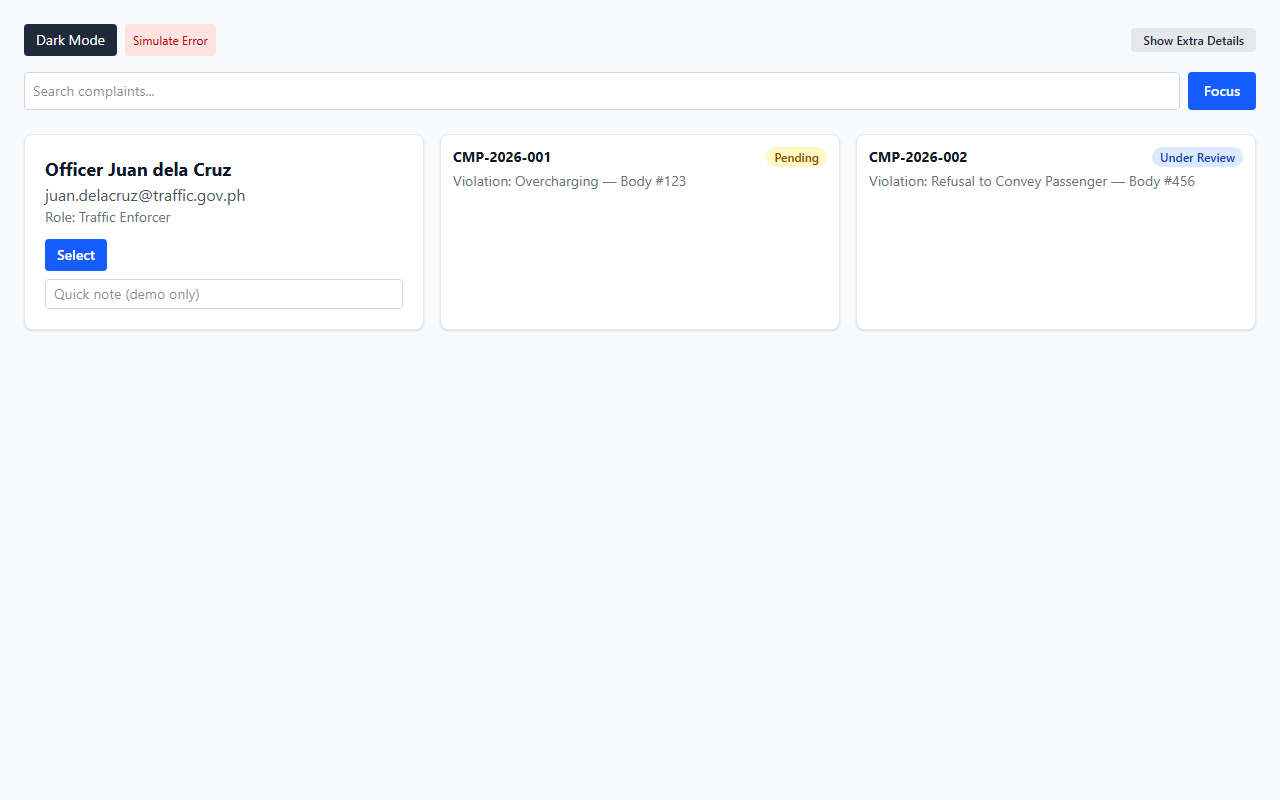
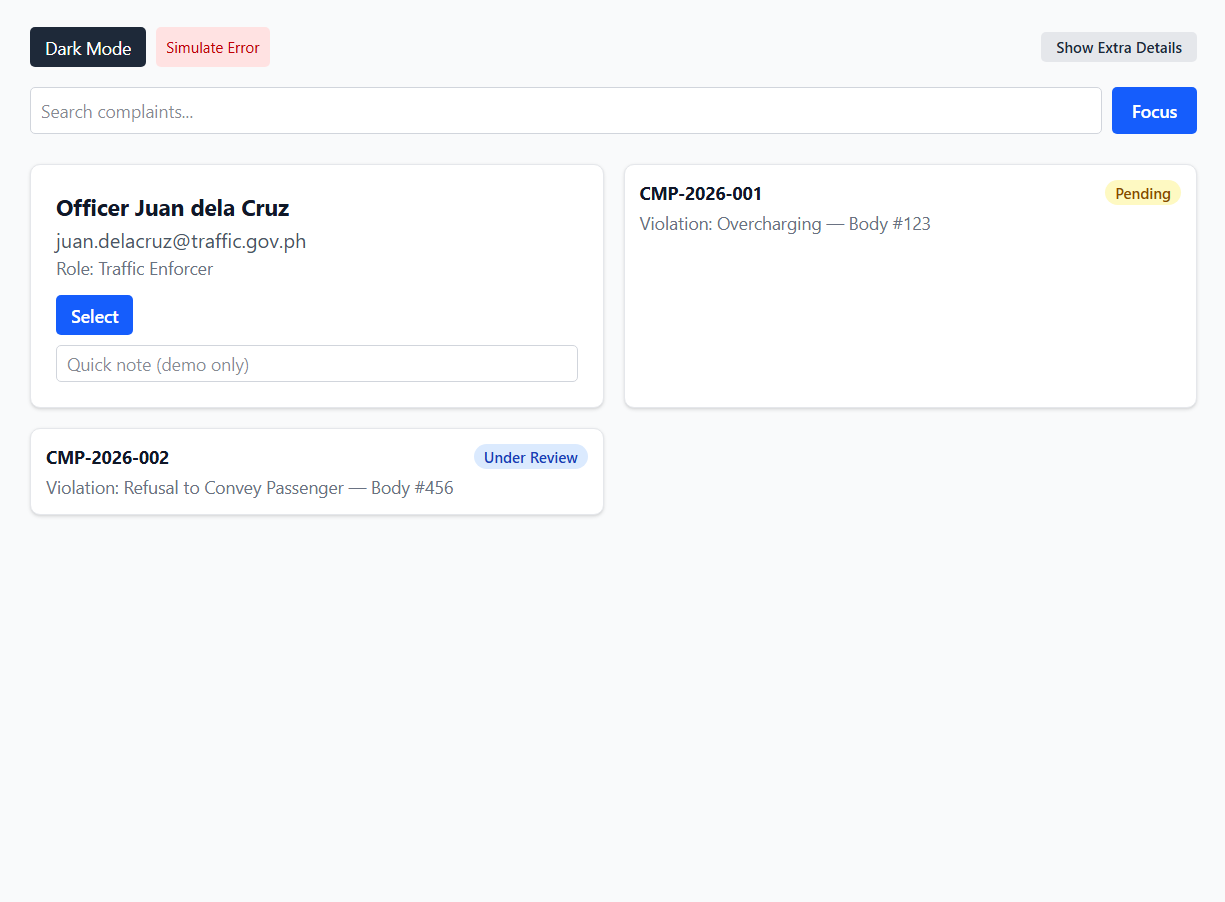
Add UI screenshots (default, dark mode, mobile) to README

diff --git a/README.md b/README.md
@@ -1,6 +1,6 @@
 # Tricycle Complaint Impact System
 
-Tricycle complaint tracker built with React, TypeScript, Vite, and Tailwind CSS v4. Features a responsive grid layout, class-based dark mode toggle, and styled loading/error states.
+A simple tricycle complaint tracker for our ITELECT4 graded task. Built with React, TypeScript, and Vite, styled with Tailwind CSS v4. Has a responsive card grid, a dark mode toggle, and loading/error states for the complaint list.
 
 ## Screenshots
 
